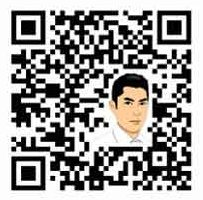
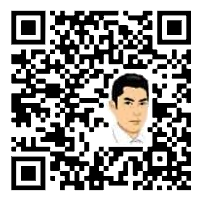
QRCode: fix crash in new isPure code path
Make the new isPure code path more narrowly requiring a `perfect` QRCode.

Add sample image data from #128 that showed the issues. Also remove
noise from 21.png to make it a proper isPure test image.

Changed region(s): [[0.0296, 0.03, 0.9458, 0.96], [0.1478, 0.09, 0.2069, 0.12], [0.7094, 0.54, 0.7389, 0.57]]

diff --git a/core/src/qrcode/QRDetector.cpp b/core/src/qrcode/QRDetector.cpp
@@ -294,17 +294,36 @@ static DetectorResult SampleAtFinderPatternSet(const BitMatrix& image, const Fin
 */
 static DetectorResult DetectPure(const BitMatrix& image)
 {
+	using Pattern = std::array<PatternView::value_type, PATTERN.size()>;
+
 	int left, top, width, height;
 	if (!image.findBoundingBox(left, top, width, height, MIN_MODULES) || std::abs(width - height) > 1)
 		return {};
 	int right  = left + width - 1;
 	int bottom = top + height - 1;
 
+	PointI tl{left, top}, tr{right, top}, bl{left, bottom};
+
+	// allow corners be moved one pixel inside to accomodate for possible aliasing artifacts
+	if (!image.get(tl))
+		tl += PointI{1, 1};
+	if (!image.get(tr))
+		tr += PointI{-1, 1};
+	if (!image.get(bl))
+		bl += PointI{1, -1};
+
 	// The top-left and top-right corners must contain a finder pattern
-	auto fpWidth   = BitMatrixCursorI(image, {left, top}, {1, 1}).stepToEdge(5);
-	auto dimension = EstimateDimension(image, PointF(left, top) + fpWidth / 2 * PointF(1, 1),
-									   PointF(right, top) + fpWidth / 2 * PointF(-1, 1))
-						 .dim;
+	if (!image.get(tl) || !image.get(tr) || !image.get(bl))
+		return {};
+
+	auto tlDiagonal = BitMatrixCursorI(image, tl, {1, 1}).readPattern<Pattern>();
+	auto trDiagonal = BitMatrixCursorI(image, tr, {-1, 1}).readPattern<Pattern>();
+	auto blDiagonal = BitMatrixCursorI(image, bl, {1, -1}).readPattern<Pattern>();
+	if (!IsPattern(tlDiagonal, PATTERN) || !IsPattern(trDiagonal, PATTERN) || !IsPattern(blDiagonal, PATTERN))
+		return {};
+
+	auto fpWidth = Reduce(tlDiagonal);
+	auto dimension = EstimateDimension(image, tl + fpWidth / 2 * PointF(1, 1), tr + fpWidth / 2 * PointF(-1, 1)).dim;
 
 	float moduleSize = float(width) / dimension;
 	if (dimension < MIN_MODULES || dimension > MAX_MODULES ||
@@ -312,24 +331,6 @@ static DetectorResult DetectPure(const BitMatrix& image)
 						   top + moduleSize / 2 + (dimension - 1) * moduleSize}))
 		return {};
 
-	// To prevent a costly Deflate() and later ReedSolomonDecode(), check corners for presense of finder patterns
-	auto hasFinderPatternAt = [&](PointI center, int size) {
-		using Pattern = std::array<PatternView::value_type, PATTERN.size()>;
-
-		for (auto d : {PointI{0, 1}, {1, 0}}) {
-			BitMatrixCursorI cur(image, center, d);
-			auto pattern = ReadSymmetricPattern<Pattern>(cur, size);
-			if (!pattern || !IsPattern(*pattern, PATTERN) || std::abs(Reduce(*pattern) - size) > 1)
-				return false;
-		}
-		return true;
-	};
-
-	fpWidth = moduleSize * 7;
-	if (!hasFinderPatternAt(PointI(left, top) + fpWidth / 2 * PointI(1, 1), fpWidth) ||
-		!hasFinderPatternAt(PointI(left, bottom) + fpWidth / 2 * PointI(1, -1), fpWidth) ||
-		!hasFinderPatternAt(PointI(right, top) + fpWidth / 2 * PointI(-1, 1), fpWidth))
-		return {};
 
 	// Now just read off the bits (this is a crop + subsample)
 	return {Deflate(image, dimension, dimension, top + moduleSize / 2, left + moduleSize / 2, moduleSize),

diff --git a/test/blackbox/BlackboxTestRunner.cpp b/test/blackbox/BlackboxTestRunner.cpp
@@ -281,12 +281,12 @@ int runBlackBoxTests(const fs::path& testPathPrefix, const std::set<std::string>
 		auto startTime = std::chrono::steady_clock::now();
 
 		// clang-format off
-		runTests("aztec-1", "Aztec", 14, {
-			{ 13, 13, 0   },
-			{ 13, 13, 90  },
-			{ 13, 13, 180 },
-			{ 13, 13, 270 },
-			{ 14, 0, pure },
+		runTests("aztec-1", "Aztec", 15, {
+			{ 14, 14, 0   },
+			{ 14, 14, 90  },
+			{ 14, 14, 180 },
+			{ 14, 14, 270 },
+			{ 15, 0, pure },
 		});
 
 		runTests("aztec-2", "Aztec", 22, {
@@ -494,12 +494,12 @@ int runBlackBoxTests(const fs::path& testPathPrefix, const std::set<std::string>
 			{ 16, 16, 270 },
 		});
 
-		runTests("qrcode-2", "QRCode", 37, {
-			{ 35, 35, 0   },
-			{ 35, 35, 90  },
-			{ 35, 35, 180 },
-			{ 35, 35, 270 },
-			{ 21, 1, pure }, // the misread is the 'outer' symbol in 16.png
+		runTests("qrcode-2", "QRCode", 38, {
+			{ 36, 36, 0   },
+			{ 36, 36, 90  },
+			{ 36, 36, 180 },
+			{ 36, 36, 270 },
+			{ 19, 1, pure }, // the misread is the 'outer' symbol in 16.png
 		});
 
 		runTests("qrcode-3", "QRCode", 28, {
